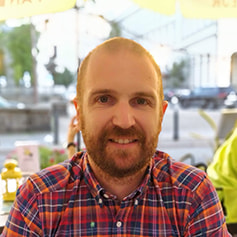
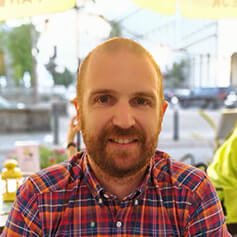
Update skills rating Update images with better compressed ones

diff --git a/data/siteConfig.js b/data/siteConfig.js
@@ -12,23 +12,23 @@ module.exports = {
   skills: [
     {
       name: 'HTML',
-      level: 80,
+      level: 90,
     },
     {
       name: 'CSS',
-      level: 60,
+      level: 85,
     },
     {
       name: 'Javascript',
-      level: 80,
+      level: 90,
     },
     {
       name: 'React',
-      level: 75,
+      level: 85,
     },
     {
       name: 'ReactNative',
-      level: 70,
+      level: 80,
     },
     {
       name: 'NodeJs',
@@ -36,7 +36,7 @@ module.exports = {
     },
     {
       name: 'Git',
-      level: 70,
+      level: 75,
     },
     {
       name: 'Bitcoin',
